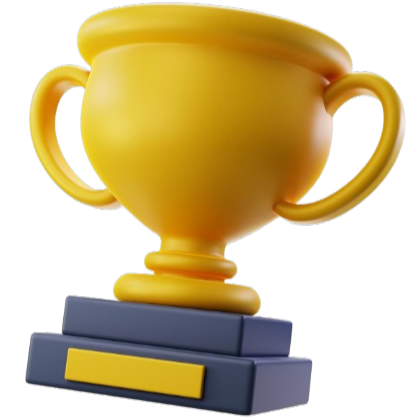
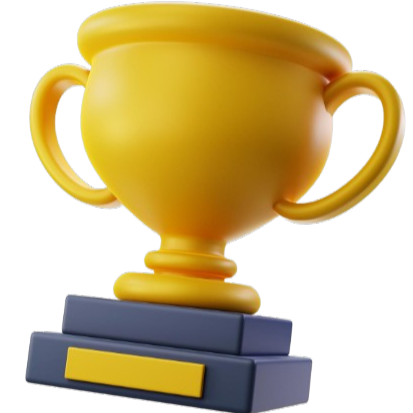
Handel lang & images to show result

diff --git a/lib/core/style/theme/my_assets_extension.dart b/lib/core/style/theme/my_assets_extension.dart
@@ -1,46 +1,46 @@
-import 'package:flutter/material.dart';
-import 'package:znoona_game_app/core/style/images/app_images.dart';
+// import 'package:flutter/material.dart';
+// import 'package:znoona_game_app/core/style/images/app_images.dart';
 
-class MyAssets extends ThemeExtension<MyAssets> {
-  const MyAssets({
-    required this.bigNavBar,
-    required this.homeBg,
-  });
+// class MyAssets extends ThemeExtension<MyAssets> {
+//   const MyAssets({
+//     required this.bigNavBar,
+//     required this.homeBg,
+//   });
 
-  final String? bigNavBar;
-  final String? homeBg;
+//   final String? bigNavBar;
+//   final String? homeBg;
 
-  @override
-  ThemeExtension<MyAssets> copyWith({
-    String? bigNavBar,
-    String? homeBg,
-  }) {
-    return MyAssets(
-      bigNavBar: bigNavBar,
-      homeBg: homeBg,
-    );
-  }
+//   @override
+//   ThemeExtension<MyAssets> copyWith({
+//     String? bigNavBar,
+//     String? homeBg,
+//   }) {
+//     return MyAssets(
+//       bigNavBar: bigNavBar,
+//       homeBg: homeBg,
+//     );
+//   }
 
-  @override
-  ThemeExtension<MyAssets> lerp(
-    covariant ThemeExtension<MyAssets>? other,
-    double t,
-  ) {
-    if (other is! MyAssets) {
-      return this;
-    }
-    return MyAssets(
-      bigNavBar: bigNavBar,
-      homeBg: homeBg,
-    );
-  }
+//   @override
+//   ThemeExtension<MyAssets> lerp(
+//     covariant ThemeExtension<MyAssets>? other,
+//     double t,
+//   ) {
+//     if (other is! MyAssets) {
+//       return this;
+//     }
+//     return MyAssets(
+//       bigNavBar: bigNavBar,
+//       homeBg: homeBg,
+//     );
+//   }
 
-  static const MyAssets dark = MyAssets(
-    bigNavBar: AppImages.bigIconNavBarDark,
-    homeBg: AppImages.homeBgDark,
-  );
-  static const MyAssets light = MyAssets(
-    bigNavBar: AppImages.bigIconNavBarLight,
-    homeBg: AppImages.homeBgLight,
-  );
-}
+//   static const MyAssets dark = MyAssets(
+//     bigNavBar: AppImages.bigIconNavBarDark,
+//     homeBg: AppImages.homeBgDark,
+//   );
+//   static const MyAssets light = MyAssets(
+//     bigNavBar: AppImages.bigIconNavBarLight,
+//     homeBg: AppImages.homeBgLight,
+//   );
+// }

diff --git a/lib/core/style/images/app_images.dart b/lib/core/style/images/app_images.dart
@@ -2,14 +2,9 @@ class AppImages {
   //Images
   static const noNetwork = 'assets/images/core/no_network.jpg';
   static const pageUnderBuild = 'assets/images/core/page_under_build.jpg';
-  static const emptyScreen = 'assets/images/core/empty_screen.png';
 
   // user
   static const userAvatar = 'assets/images/user/user.png';
-  static const bigIconNavBarDark = 'assets/images/user/big_nav_bar_dark.png';
-  static const bigIconNavBarLight = 'assets/images/user/big_nav_bar_light.png';
-  static const homeBgDark = 'assets/images/user/home_bg_dark.png';
-  static const homeBgLight = 'assets/images/user/home_bg_light.png';
   static const level = 'assets/images/user/level.png';
   static const quizGame = 'assets/images/user/quiz_game.png';
   static const puzzle = 'assets/images/user/Puzzle.png';
@@ -22,12 +17,8 @@ class AppImages {
   static const random = 'assets/images/user/rondem.png';
   static const science = 'assets/images/user/science.png';
   static const technology = 'assets/images/user/technology.png';
-
-  // Admin
-  static const drawerImage = 'assets/images/admin/drawer_image.png';
-  static const categoriesDrawer = 'assets/images/admin/categories_drawer.png';
-  static const productsDrawer = 'assets/images/admin/products_drawer.png';
-  static const usersDrawer = 'assets/images/admin/users_drawer.png';
+  static const wonCup = 'assets/images/user/won_cup.png';
+  static const goodResult = 'assets/images/user/good_result.png';
 
   //Svg
   static const search = 'assets/svg/search.svg';

diff --git a/lib/core/style/theme/app_theme.dart b/lib/core/style/theme/app_theme.dart
@@ -2,7 +2,6 @@ import 'package:flutter/material.dart';
 import 'package:google_fonts/google_fonts.dart';
 import 'package:znoona_game_app/core/style/colors/colors_dark.dart';
 import 'package:znoona_game_app/core/style/colors/colors_light.dart';
-import 'package:znoona_game_app/core/style/theme/my_assets_extension.dart';
 import 'package:znoona_game_app/core/style/theme/my_colors_extension.dart';
 
 ThemeData darkTheme() {
@@ -10,7 +9,7 @@ ThemeData darkTheme() {
     scaffoldBackgroundColor: ColorsDark.mainColor,
     extensions: const <ThemeExtension<dynamic>>{
       MyColors.dark,
-      MyAssets.dark,
+      // MyAssets.dark,
     },
     useMaterial3: true,
     textTheme:
@@ -30,7 +29,7 @@ ThemeData lightTheme() {
     scaffoldBackgroundColor: ColorsLight.mainColor,
     extensions: const <ThemeExtension<dynamic>>{
       MyColors.light,
-      MyAssets.light,
+      // MyAssets.light,
     },
     useMaterial3: true,
     textTheme:

diff --git a/lib/core/helpers/znoona_images.dart b/lib/core/helpers/znoona_images.dart
@@ -1,14 +1,14 @@
-import 'package:flutter/material.dart';
-import 'package:znoona_game_app/core/style/theme/my_assets_extension.dart';
+// import 'package:flutter/material.dart';
+// import 'package:znoona_game_app/core/style/theme/my_assets_extension.dart';
 
-class ZnoonaImages {
-  static MyAssets of(BuildContext context) {
-    return Theme.of(context).extension<MyAssets>()!;
-  }
+// class ZnoonaImages {
+//   static MyAssets of(BuildContext context) {
+//     return Theme.of(context).extension<MyAssets>()!;
+//   }
 
-  static String bigNavBar(BuildContext context) =>
-      of(context).bigNavBar!;
+//   static String bigNavBar(BuildContext context) =>
+//       of(context).bigNavBar!;
 
-  static String homeBg(BuildContext context) =>
-      of(context).homeBg!;
-}
+//   static String homeBg(BuildContext context) =>
+//       of(context).homeBg!;
+// }

diff --git a/lib/core/language/lang_keys.dart b/lib/core/language/lang_keys.dart
@@ -60,4 +60,14 @@ class LangKeys {
   static const String randomDiscription = 'random_discription';
   static const String question = 'questions';
   static const String from = 'from';
+  static const String result = 'result';
+  static const String won = 'won';
+  static const String good = 'good';
+  static const String lost = 'lost';
+  static const String correct = 'correct';
+  static const String youScore = 'you_score';
+  static const String congratulations = 'congratulations';
+  static const String back = 'back';
+  static const String train = 'train';
+
 }
